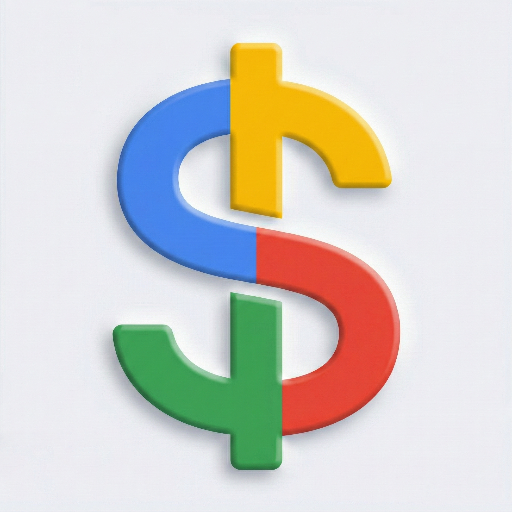
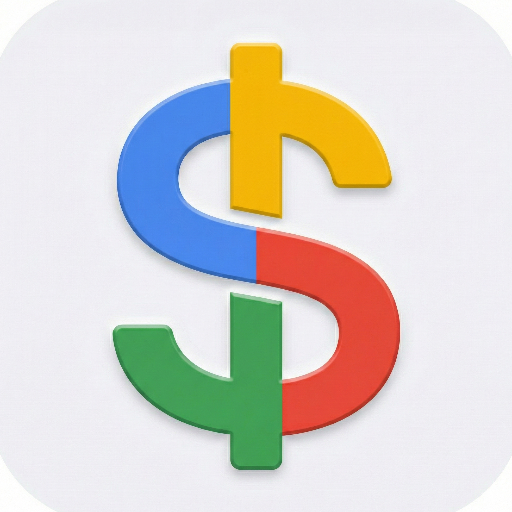
deploy: 1cd35751712ebcfb559732d30e388024b607d7a7

diff --git a/sw.js b/sw.js
@@ -1,1 +1,1 @@
-if(!self.define){let i,n={};const e=(e,o)=>(e=new URL(e+".js",o).href,n[e]||new Promise(n=>{if("document"in self){const i=document.createElement("script");i.src=e,i.onload=n,document.head.appendChild(i)}else i=e,importScripts(e),n()}).then(()=>{let i=n[e];if(!i)throw new Error(`Module ${e} didn’t register its module`);return i}));self.define=(o,c)=>{const s=i||("document"in self?document.currentScript.src:"")||location.href;if(n[s])return;let r={};const d=i=>e(i,s),l={module:{uri:s},exports:r,require:d};n[s]=Promise.all(o.map(i=>l[i]||d(i))).then(i=>(c(...i),r))}}define(["./workbox-8c29f6e4"],function(i){"use strict";self.skipWaiting(),i.clientsClaim(),i.precacheAndRoute([{url:"registerSW.js",revision:"402b66900e731ca748771b6fc5e7a068"},{url:"index.html",revision:"18f1c6850355114653c2906d94d1239f"},{url:"icons/icon-apple.png",revision:"35f6c27287f4f1996819d0fb4134e3bd"},{url:"icons/icon-96x96.png",revision:"2490d2538b859e46f2730a3d76d97424"},{url:"icons/icon-72x72.png",revision:"aa17058bbcd4a0424869a1ac910285c7"},{url:"icons/icon-512x512.png",revision:"78a9f7e706a4ac121bd75b74f5b57381"},{url:"icons/icon-48x48.png",revision:"88abee35ee066072798a938c1256a6dd"},{url:"icons/icon-384x384.png",revision:"1770ebe33f83af24b3f9f7699b567ff8"},{url:"icons/icon-256x256.png",revision:"c6e325d895c332bd228aa8fbf9ec114b"},{url:"icons/icon-192x192.png",revision:"4a4c31df4771a656b2c29ab5ac284c7a"},{url:"icons/icon-152x152.png",revision:"7b54464d4223bcd27ddd98b709a18d73"},{url:"icons/icon-144x144.png",revision:"2e19a27b7d9d1e1b51b37d377a0b7310"},{url:"icons/icon-128x128.png",revision:"3033a76a96934253ba6cfec14773a87f"},{url:"assets/index-DGs3_wBs.js",revision:null},{url:"assets/index-CnmkmUcR.css",revision:null}],{}),i.cleanupOutdatedCaches(),i.registerRoute(new i.NavigationRoute(i.createHandlerBoundToURL("index.html")))});
+if(!self.define){let i,n={};const e=(e,c)=>(e=new URL(e+".js",c).href,n[e]||new Promise(n=>{if("document"in self){const i=document.createElement("script");i.src=e,i.onload=n,document.head.appendChild(i)}else i=e,importScripts(e),n()}).then(()=>{let i=n[e];if(!i)throw new Error(`Module ${e} didn’t register its module`);return i}));self.define=(c,o)=>{const s=i||("document"in self?document.currentScript.src:"")||location.href;if(n[s])return;let r={};const a=i=>e(i,s),d={module:{uri:s},exports:r,require:a};n[s]=Promise.all(c.map(i=>d[i]||a(i))).then(i=>(o(...i),r))}}define(["./workbox-8c29f6e4"],function(i){"use strict";self.skipWaiting(),i.clientsClaim(),i.precacheAndRoute([{url:"registerSW.js",revision:"402b66900e731ca748771b6fc5e7a068"},{url:"index.html",revision:"18f1c6850355114653c2906d94d1239f"},{url:"icons/icon-apple.png",revision:"4b02792ac915103a27b01cba86c52be3"},{url:"icons/icon-96x96.png",revision:"2490d2538b859e46f2730a3d76d97424"},{url:"icons/icon-72x72.png",revision:"aa17058bbcd4a0424869a1ac910285c7"},{url:"icons/icon-512x512.png",revision:"78a9f7e706a4ac121bd75b74f5b57381"},{url:"icons/icon-48x48.png",revision:"88abee35ee066072798a938c1256a6dd"},{url:"icons/icon-384x384.png",revision:"1770ebe33f83af24b3f9f7699b567ff8"},{url:"icons/icon-256x256.png",revision:"c6e325d895c332bd228aa8fbf9ec114b"},{url:"icons/icon-192x192.png",revision:"4a4c31df4771a656b2c29ab5ac284c7a"},{url:"icons/icon-152x152.png",revision:"7b54464d4223bcd27ddd98b709a18d73"},{url:"icons/icon-144x144.png",revision:"2e19a27b7d9d1e1b51b37d377a0b7310"},{url:"icons/icon-128x128.png",revision:"3033a76a96934253ba6cfec14773a87f"},{url:"assets/index-DGs3_wBs.js",revision:null},{url:"assets/index-CnmkmUcR.css",revision:null}],{}),i.cleanupOutdatedCaches(),i.registerRoute(new i.NavigationRoute(i.createHandlerBoundToURL("index.html")))});
